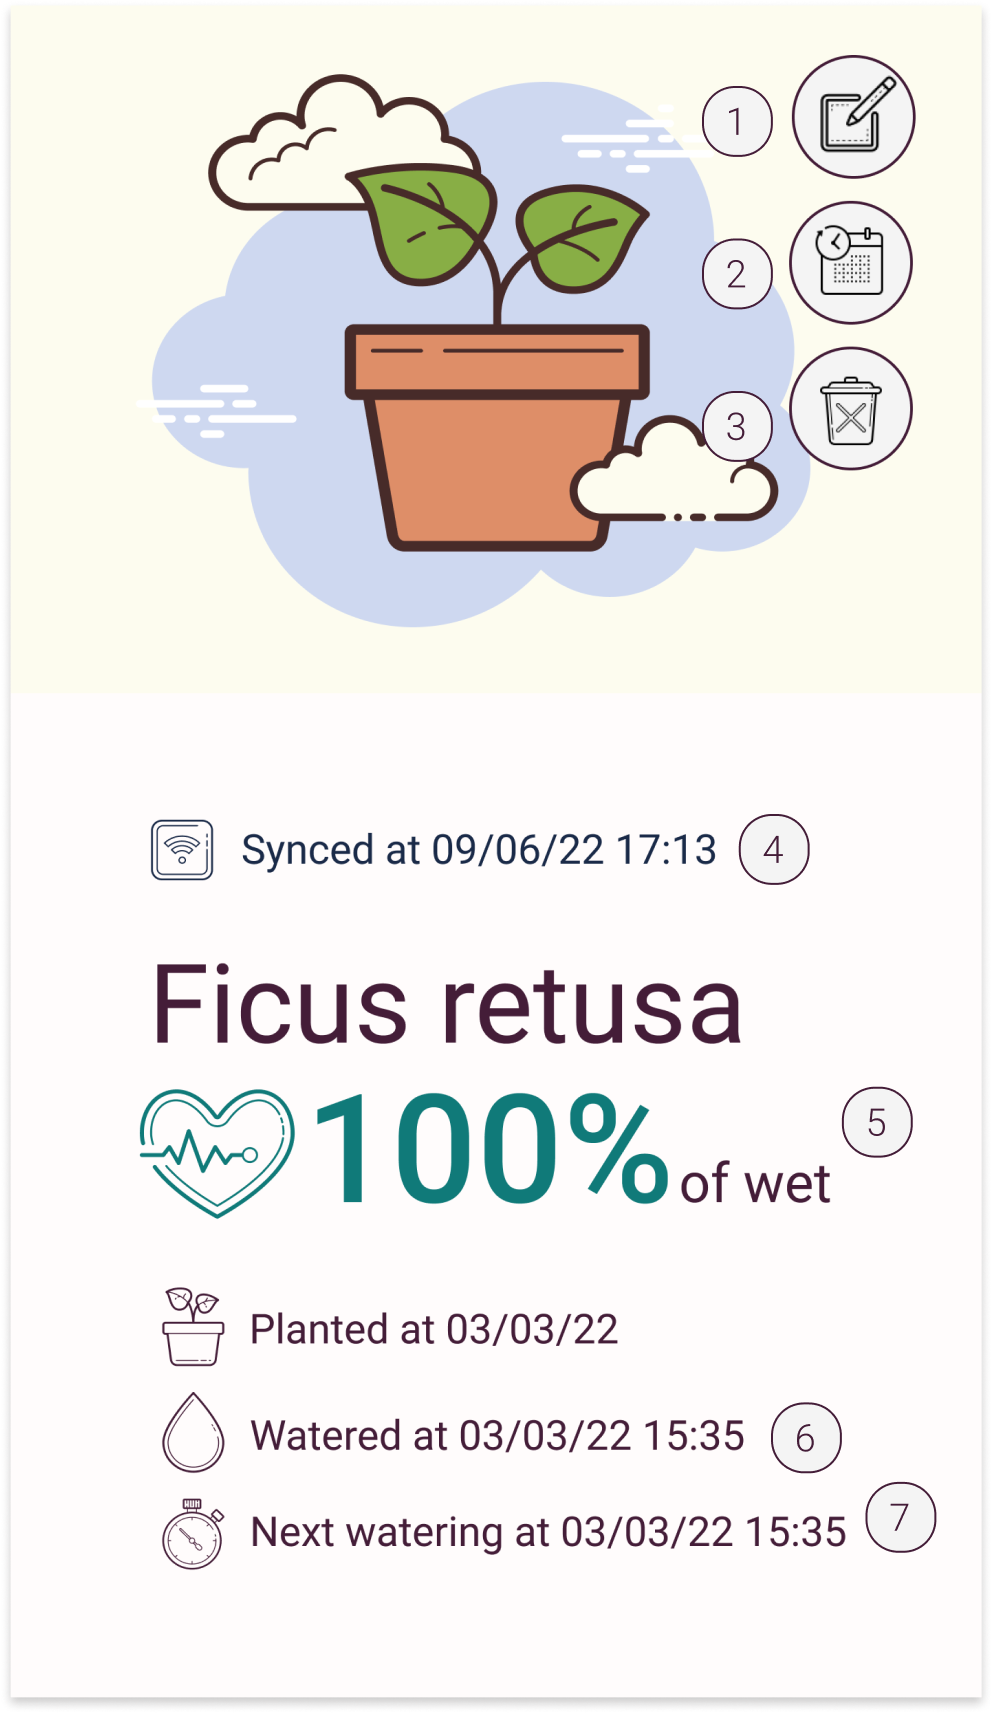
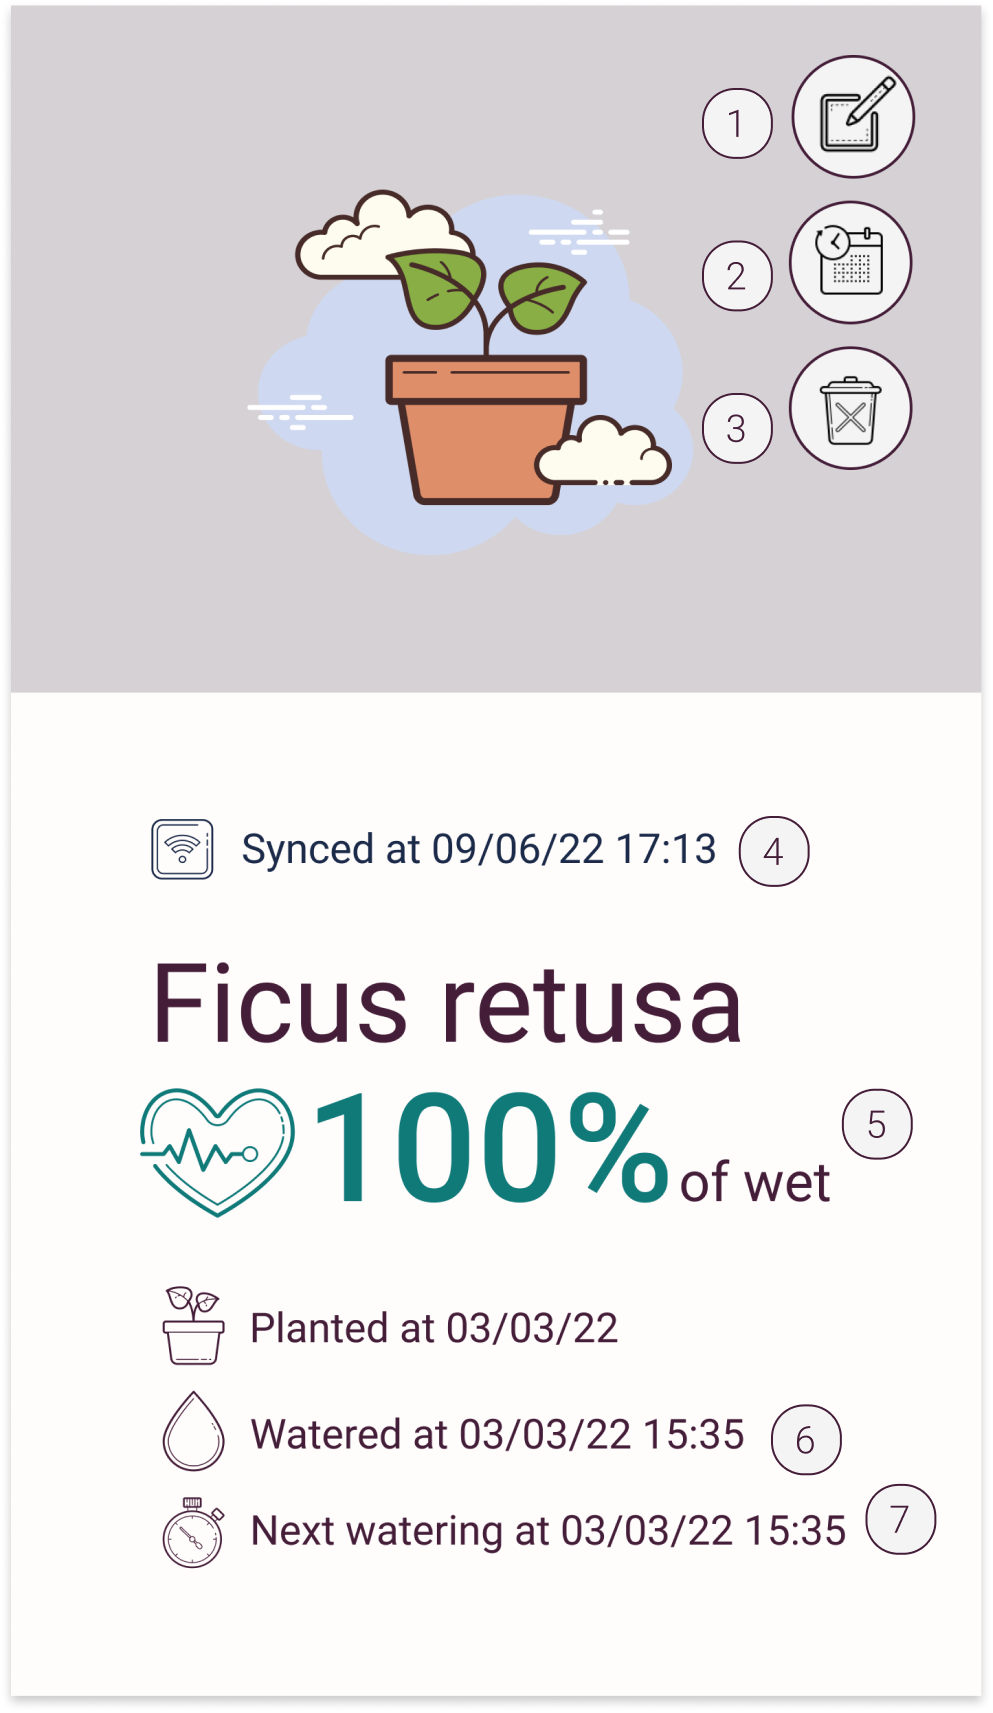
Cosmetic changes

diff --git a/src/pages/plantcares/index.js b/src/pages/plantcares/index.js
@@ -87,23 +87,17 @@ export const Plantcares = ({}) => {
       <Grid item direction="column" justifyContent="center" xs={12}>
         <PanelWithImage
           image={gardenImg}
-          styles={{ imgStyles: { maxHeight: '35vh' }, minHeight: '1vmin' }}
+          styles={{ imgStyles: { maxHeight: '25vh' }, minHeight: '1vmin' }}
           title={enLocale.theGarden.title}
           subtitle={enLocale.theGarden.subtitle}
           description={enLocale.theGarden.description}
           children={gardenButtons}
         />
       </Grid>
-      <Grid item direction="column" justifyContent="center" xs={12} sm={6} md={6} lg={3} xl={3}>
+      <Grid container direction="row" justifyContent="center" xs={12}>
         <Card />
-      </Grid>
-      <Grid item direction="column" justifyContent="center" xs={12} sm={6} md={6} lg={3} xl={3}>
         <Card />
-      </Grid>
-      <Grid item direction="column" justifyContent="center" xs={12} sm={6} md={6} lg={3} xl={3}>
         <Card />
-      </Grid>
-      <Grid item direction="column" justifyContent="center" xs={12} sm={6} md={6} lg={3} xl={3}>
         <Card />
       </Grid>
     </Grid>

diff --git a/src/components/panel-with-image/index.js b/src/components/panel-with-image/index.js
@@ -21,7 +21,7 @@ export const PanelWithImage = ({ id, image, title, subtitle, description, childr
   const { imgStyles, ...otherStyles } = styles;
 
   return (
-    <Grid container direction="row" justifyContent="center" id={id}>
+    <Grid container direction="row" justifyContent="space-around" id={id}>
       <Grid
         item
         direction="column"
@@ -49,6 +49,7 @@ export const PanelWithImage = ({ id, image, title, subtitle, description, childr
       <Grid
         item
         xs={12}
+        sm={6}
         md={5}
         lg={5}
         direction="column"
@@ -75,7 +76,16 @@ export const PanelWithImage = ({ id, image, title, subtitle, description, childr
           </Typography>
         )}
       </Grid>
-      <Grid item xs={12} md={6} lg={5} display="flex" justifyContent="center" alignItems="center">
+      <Grid
+        item
+        xs={12}
+        sm={4}
+        md={5}
+        lg={5}
+        display="flex"
+        justifyContent="center"
+        alignItems="center"
+      >
         <img src={image} alt="panel-image" style={{ ...defaultImgStyles, ...imgStyles }} />
       </Grid>
       <Grid

diff --git a/src/components/panel/index.js b/src/components/panel/index.js
@@ -6,7 +6,7 @@ const defaultStyles = {
   mobile: {
     display: { xs: 'flex', lg: 'none' },
     textAlign: { xs: 'center', md: 'left' },
-    alignItems: { xs: 'center', md: 'flex-start' },
+    alignItems: { xs: 'center', md: 'center' },
     padding: '20px 10px 0 10px'
   },
   desktop: { display: { xs: 'none', lg: 'flex' } }
@@ -44,7 +44,8 @@ export const Panel = ({ id, title, subtitle, description, children, styles }) =>
       <Grid
         item
         xs={12}
-        md={5}
+        sm={10}
+        md={children ? 5 : 10}
         lg={5}
         direction="column"
         justifyContent="center"
@@ -74,6 +75,7 @@ export const Panel = ({ id, title, subtitle, description, children, styles }) =>
         <Grid
           item
           xs={12}
+          sm={10}
           md={5}
           lg={5}
           direction="column"
